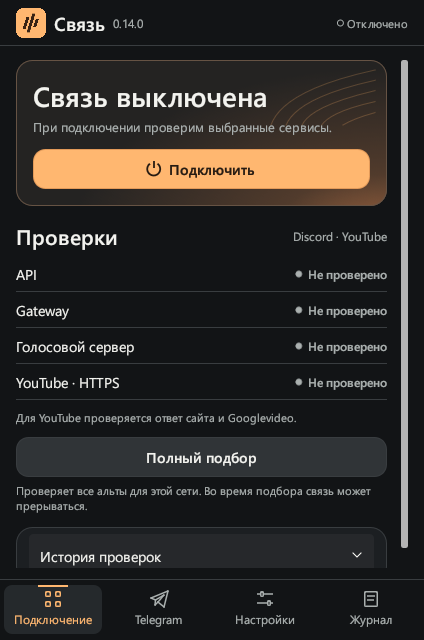
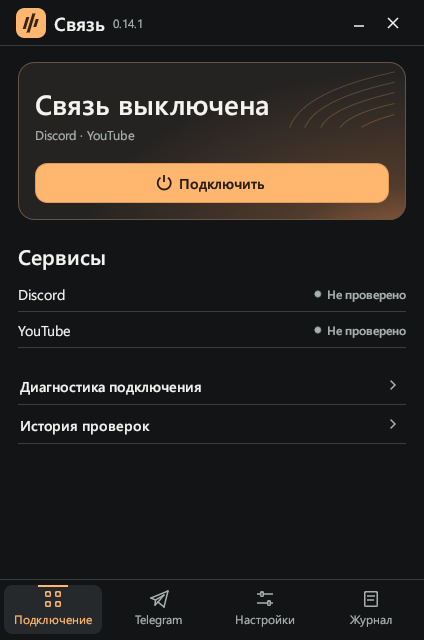
Show the verified 0.14.1 Windows window and installer on the download page

diff --git a/site/index.html b/site/index.html
@@ -15,7 +15,7 @@
 <body>
   <a class="skip" href="#main">К содержимому</a>
   <header class="header wrap">
-    <a class="brand" href="#" aria-label="Связь — начало страницы"><img src="icon.png" width="36" height="36" alt="">Связь<span class="version">0.14.0</span></a>
+    <a class="brand" href="#" aria-label="Связь — начало страницы"><img src="icon.png" width="36" height="36" alt="">Связь<span class="version">0.14.1</span></a>
     <nav aria-label="Основная навигация"><a href="#features">Возможности</a><a href="#start">Как начать</a><a class="github" href="https://github.com/QeeDy777/svyaz">GitHub <span aria-hidden="true">↗</span></a></nav>
   </header>
   <main id="main">
@@ -25,14 +25,14 @@
         <h1 id="hero-title">На связи.<br><span>Без лишнего.</span></h1>
         <p class="lead">Discord, YouTube, Telegram.<br>Исправить подключение — одним нажатием.</p>
         <p class="description">«Связь» перебирает стратегии zapret, проверяет ответ сервисов Discord и оставляет подходящую работать. Движок Telegram-прокси уже встроен в приложение.</p>
-        <a class="button" href="https://github.com/QeeDy777/svyaz/releases/download/v0.14.0/Svyaz-0.14.0-win-x64-setup-unsigned.exe"><svg width="20" height="20" viewBox="0 0 24 24" fill="none" stroke="currentColor" stroke-width="1.7" aria-hidden="true"><path d="M12 3v12m-5-5 5 5 5-5M4 16v5h16v-5"/></svg>Скачать для Windows</a>
-        <p class="download-note">Windows 10 / 11 · x64 · установщик EXE<br>Версия 0.14.0 · приложение на Rust</p>
+        <a class="button" href="https://github.com/QeeDy777/svyaz/releases/download/v0.14.1/Svyaz-0.14.1-win-x64-setup-unsigned.exe"><svg width="20" height="20" viewBox="0 0 24 24" fill="none" stroke="currentColor" stroke-width="1.7" aria-hidden="true"><path d="M12 3v12m-5-5 5 5 5-5M4 16v5h16v-5"/></svg>Скачать для Windows</a>
+        <p class="download-note">Windows 10 / 11 · x64 · установщик EXE<br>Версия 0.14.1 · приложение на Rust</p>
         <a class="quiet-link" href="#start">Три шага до подключения <span aria-hidden="true">↓</span></a>
       </div>
       <figure class="preview">
         <div class="orbit orbit-one" aria-hidden="true"></div><div class="orbit orbit-two" aria-hidden="true"></div>
         <img class="app-window" src="svyaz-window.png" width="424" height="640" alt="Главное окно «Связи» с кнопкой подключения, результатами проверок и нижними вкладками">
-        <figcaption>«Связь» для Windows · версия 0.14.0</figcaption>
+        <figcaption>«Связь» для Windows · версия 0.14.1</figcaption>
       </figure>
     </section>
     <div class="ribbon"><div class="wrap"><span>Подбор альтов</span><span>Обновления с GitHub</span><span>Запуск вместе с Windows</span><span>Game Filter</span></div></div>
@@ -67,7 +67,7 @@
         <details><summary>Что делать при ошибке запуска?</summary><p>Повтори установку: она сохранит настройки. При аварии окно ошибки показывает подробности и путь к startup-error.log. Описать проблему можно в <a href="https://github.com/QeeDy777/svyaz/issues">Issues на GitHub</a>; перед публикацией журнала проверь, что в нём нет личных данных.</p></details>
       </div>
     </section>
-    <section class="closing wrap"><div><p class="eyebrow">Связь 0.14.0</p><h2>Пора подключаться.</h2></div><a class="button" href="https://github.com/QeeDy777/svyaz/releases/latest">Открыть загрузки <span aria-hidden="true">↗</span></a></section>
+    <section class="closing wrap"><div><p class="eyebrow">Связь 0.14.1</p><h2>Пора подключаться.</h2></div><a class="button" href="https://github.com/QeeDy777/svyaz/releases/latest">Открыть загрузки <span aria-hidden="true">↗</span></a></section>
   </main>
   <footer class="footer wrap"><div class="brand"><img src="icon.png" width="28" height="28" alt="">Связь</div><p>Самостоятельная оболочка на базе <a href="https://github.com/Flowseal/zapret-discord-youtube">Flowseal zapret</a> и <a href="https://github.com/Flowseal/tg-ws-proxy">tg-ws-proxy</a>.<br>Не официальный продукт Discord или Flowseal.</p><a href="https://github.com/QeeDy777/svyaz">Исходный код ↗</a></footer>
 </body>
